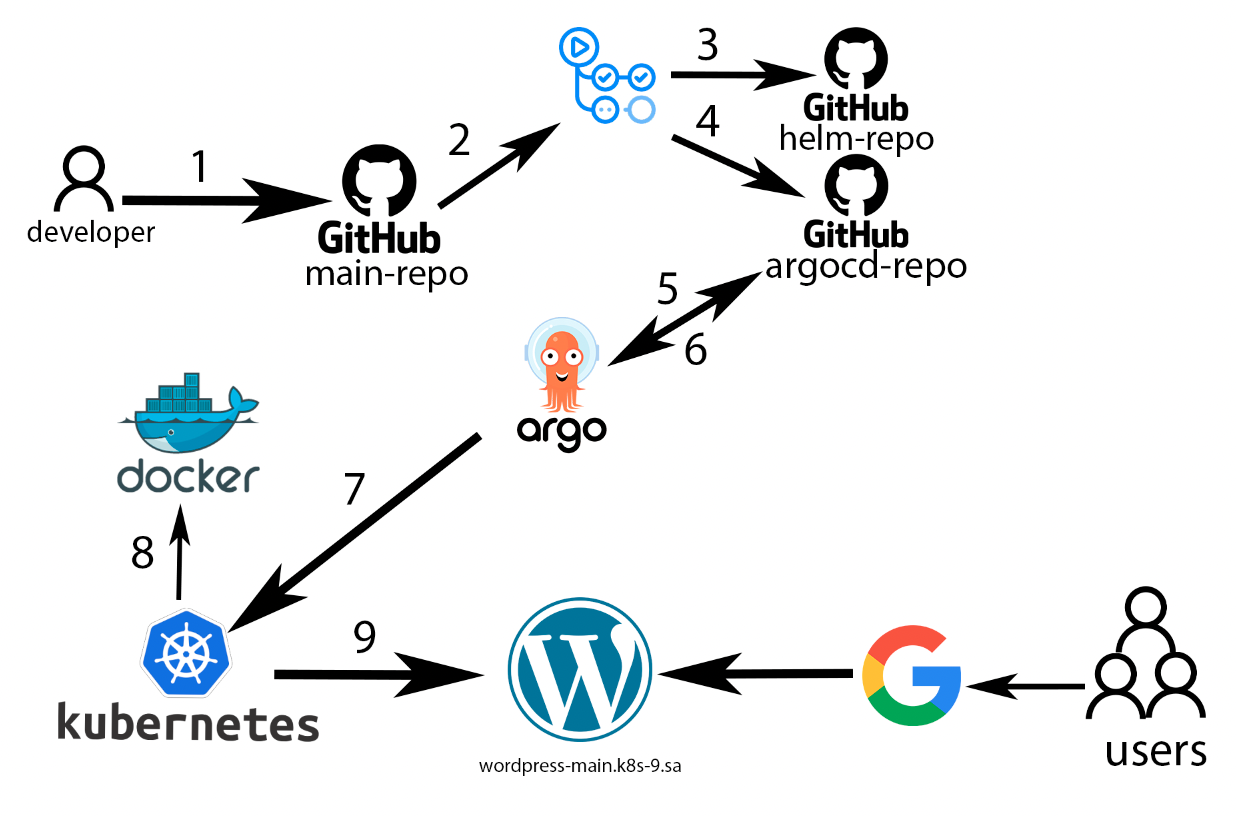
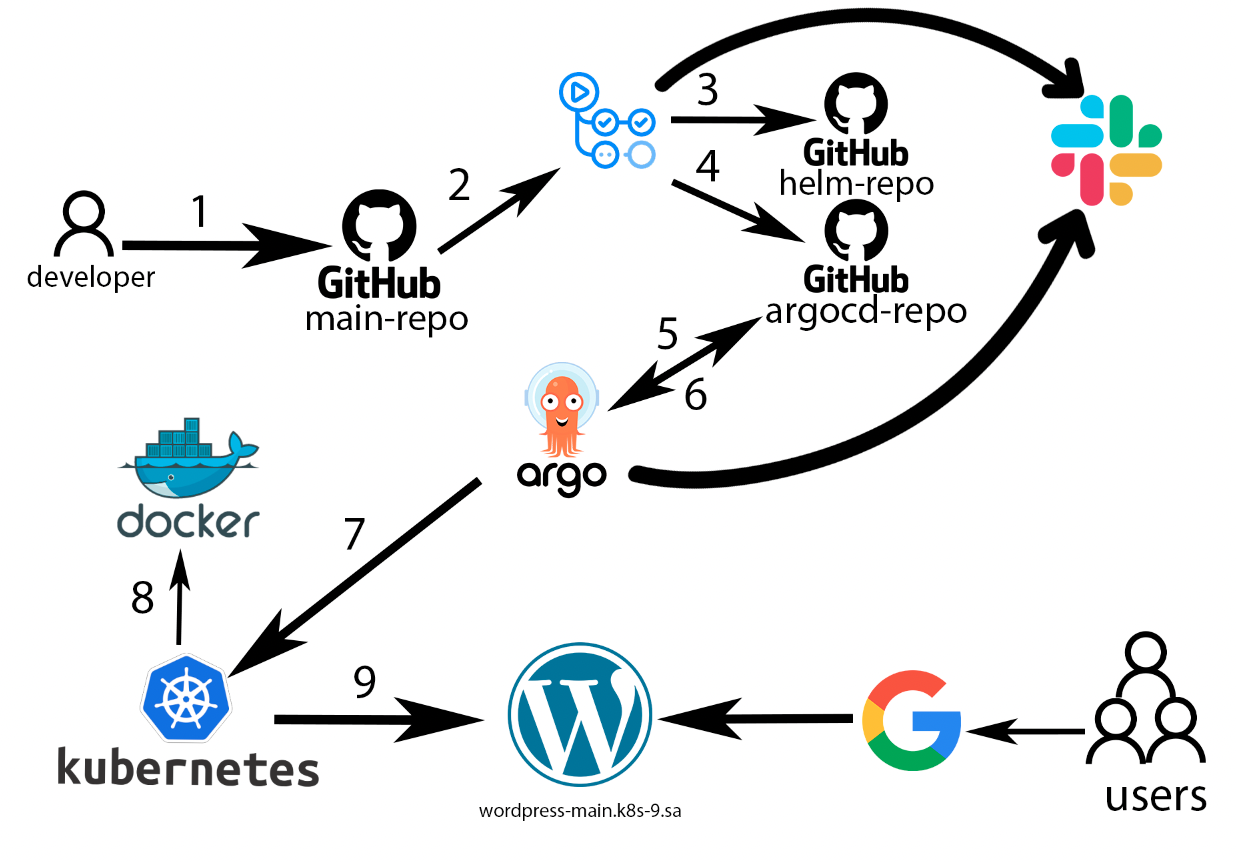
Change png and README.md

Changed region(s): [[0.0307, 0.0, 0.9838, 0.9498], [0.0922, 0.4596, 0.2152, 0.7047]]

diff --git a/Dmitry_Kononkov/Project/README.md b/Dmitry_Kononkov/Project/README.md
@@ -10,7 +10,7 @@
   - [argocd-repo](https://github.com/ussnorma/argocd)
   - [helm-repo](https://github.com/ussnorma/helm)
 ## Pipeline. High Level Design
-![project-scheme](https://github.com/ussnorma/Git.Hosting.03/blob/main/screnshots/%D0%A1%D0%BD%D0%B8%D0%BC%D0%BE%D0%BA%20%D1%8D%D0%BA%D1%80%D0%B0%D0%BD%D0%B0%202024-04-07%20%D0%B2%2022.49.55.png?raw=true)
+![project-scheme](https://github.com/ussnorma/DevOps-Project-1/blob/main/Project-pipeline.png?raw=true)
 ## Technologies which were used in project
 * Orchestration: git runners.
 * Automation tools: Ansible, bash.
